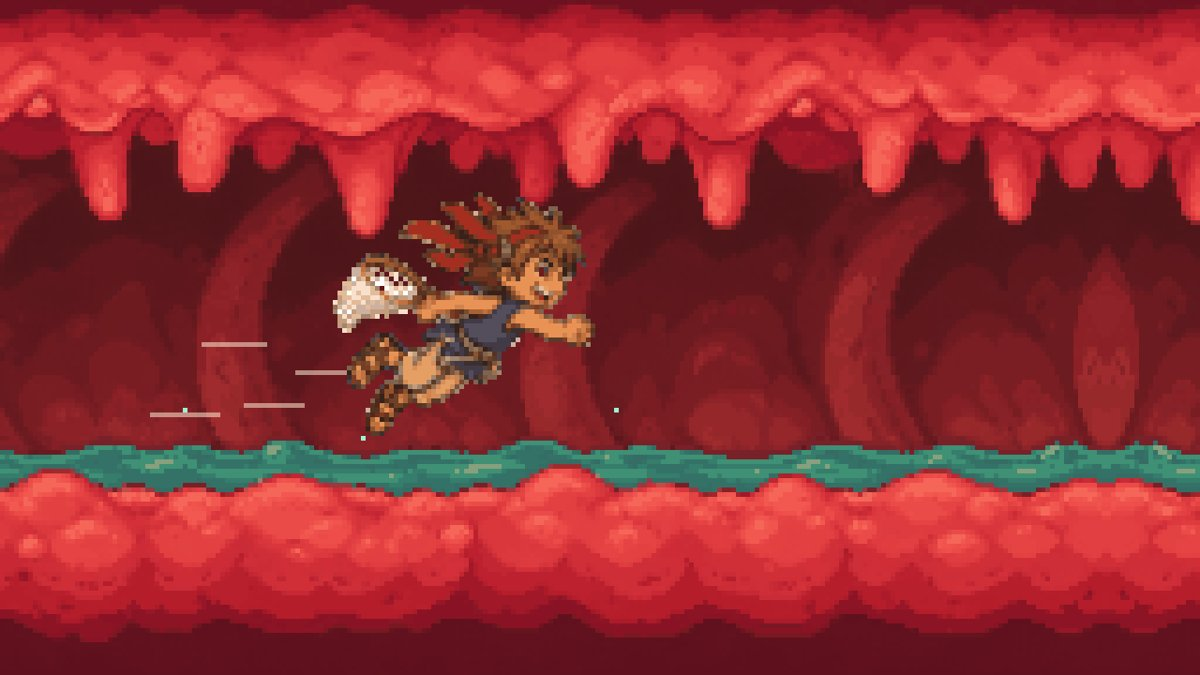
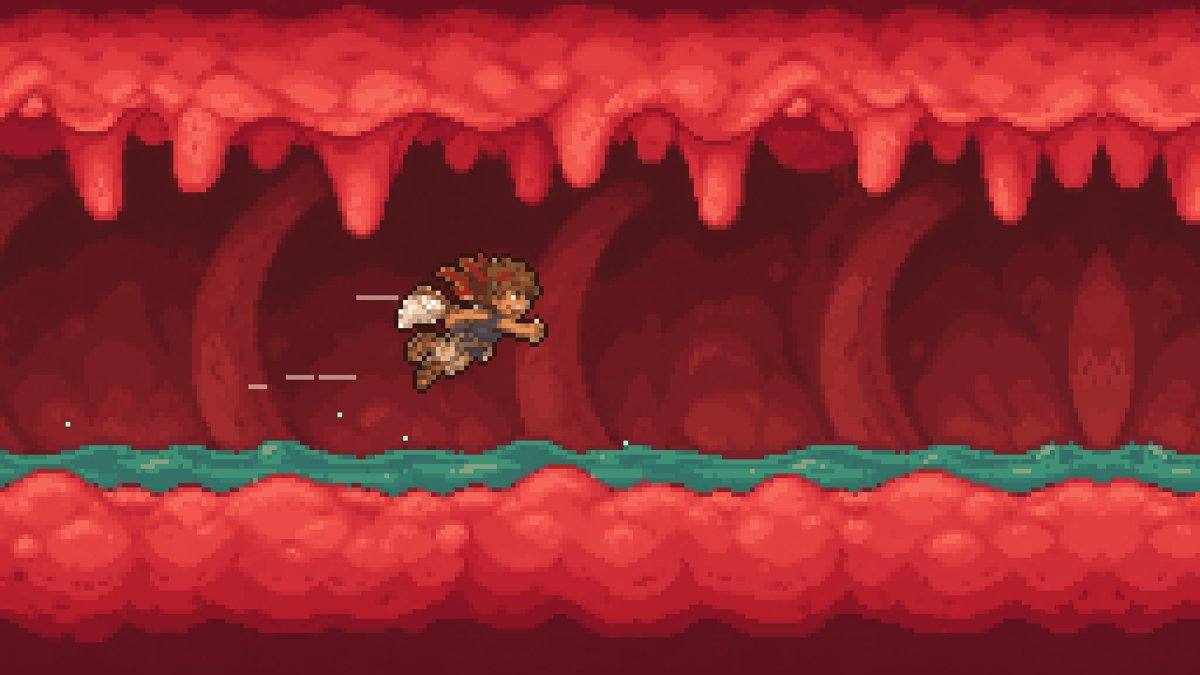
Make the flying boy smaller, with a pixel outline
Claude-Session: https://claude.ai/code/session_01TT9nh2LHULSaAs9YgLgihV

diff --git a/index.html b/index.html
@@ -23,14 +23,14 @@ canvas{position:absolute;left:50%;top:50%;transform:translate(-50%,-50%);image-r
 {
 const cv = document.getElementById('c'), g = cv.getContext('2d');
 const still = matchMedia('(prefers-reduced-motion: reduce)').matches;
-const BG_H = 145, TILE_W = 514, FRAME_W = 83, FRAME_H = 85, ANCHOR_X = 31, ANCHOR_Y = 51;
+const BG_H = 145, TILE_W = 514, FRAME_W = 48, FRAME_H = 49, ANCHOR_X = 18, ANCHOR_Y = 29;
 const bg = new Image(), kid = new Image();
 bg.src = 'assets/px-bg.png'; kid.src = 'assets/px-kid.png';
 
 let W = 0, H = 0, k = 1, top = 0, topCol = '#4a0f1a', botCol = '#4a0f1a';
 function fit() {
   const vw = innerWidth, vh = innerHeight;
-  k = Math.max(1, Math.min(Math.ceil(vh / BG_H), Math.floor(vw / 130)));
+  k = Math.max(1, Math.min(Math.ceil(vh / BG_H), Math.floor(vw / 110)));
   W = Math.ceil(vw / k); H = Math.ceil(vh / k);
   cv.width = W; cv.height = H;
   cv.style.width = W * k + 'px'; cv.style.height = H * k + 'px';
@@ -84,8 +84,8 @@ function draw(now) {
     g.fillStyle = 'rgba(255,235,210,.55)';
     for (const l of lines) {
       l.t += 0.02;
-      if (l.t > 1) { l.t = 0; l.y = ky - 18 + Math.floor(Math.random() * 34); l.len = 6 + Math.floor(Math.random() * 10); }
-      const x = kx - 34 - Math.floor(l.t * 40);
+      if (l.t > 1) { l.t = 0; l.y = ky - 10 + Math.floor(Math.random() * 20); l.len = 4 + Math.floor(Math.random() * 7); }
+      const x = kx - 22 - Math.floor(l.t * 30);
       if (l.len) g.fillRect(x, l.y, l.len, 1);
     }
   }
@@ -100,8 +100,8 @@ function draw(now) {
   if (frame === 3) {
     g.fillStyle = '#ffe9a8';
     for (let i = 0; i < 8; i++) {
-      const a = i / 8 * Math.PI * 2 + t * 3, r = 22 + (i % 2) * 6;
-      g.fillRect(kx + Math.round(Math.cos(a) * r), ky - 30 + Math.round(Math.sin(a) * r * .7), 1 + (i % 2), 1 + (i % 2));
+      const a = i / 8 * Math.PI * 2 + t * 3, r = 13 + (i % 2) * 4;
+      g.fillRect(kx + Math.round(Math.cos(a) * r), ky - 16 + Math.round(Math.sin(a) * r * .7), 1 + (i % 2), 1 + (i % 2));
     }
   }
   if (!still) requestAnimationFrame(draw);
